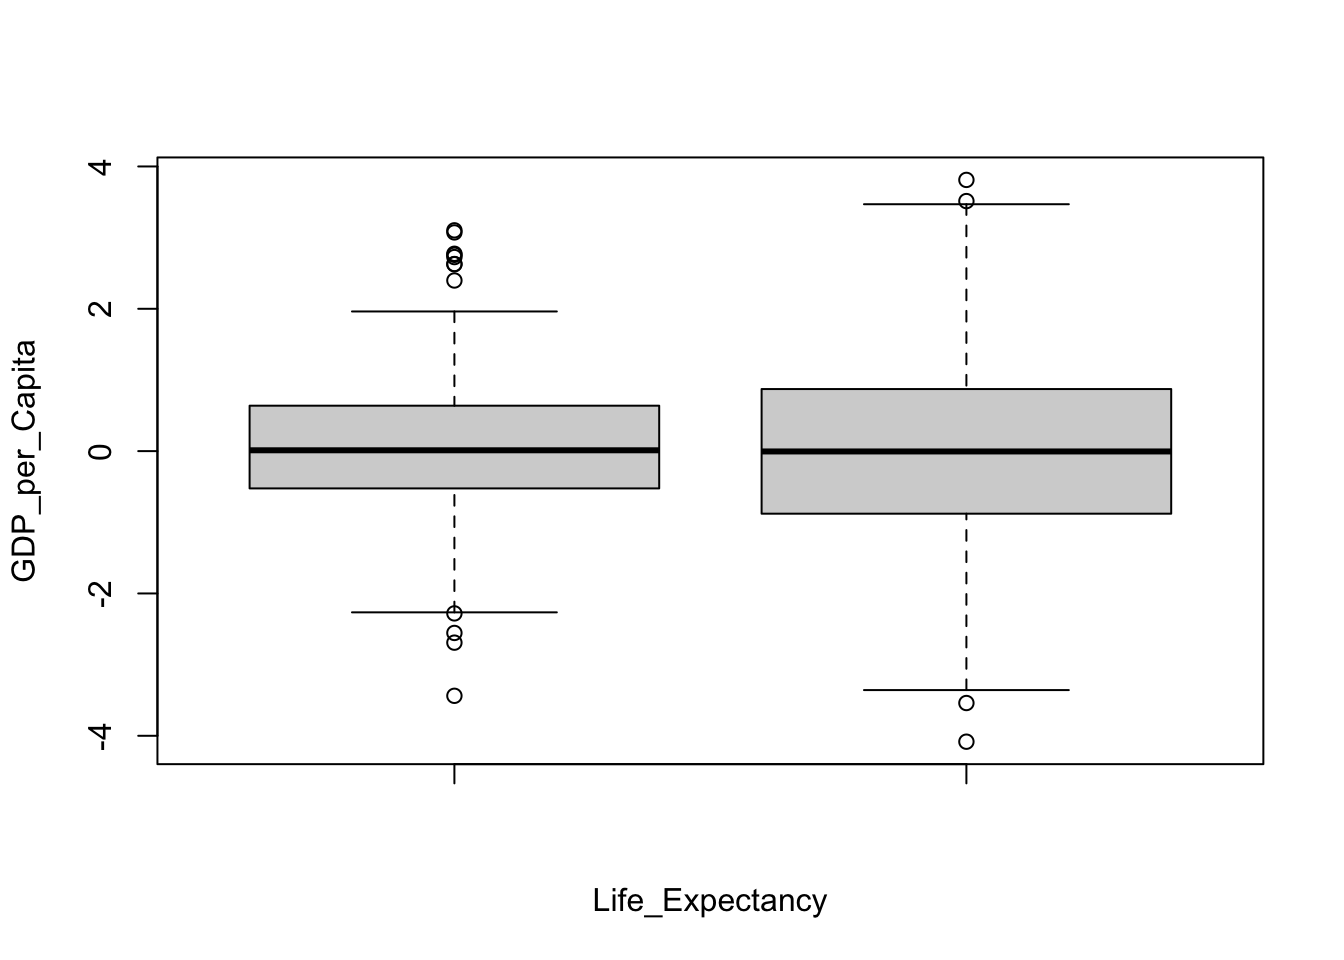
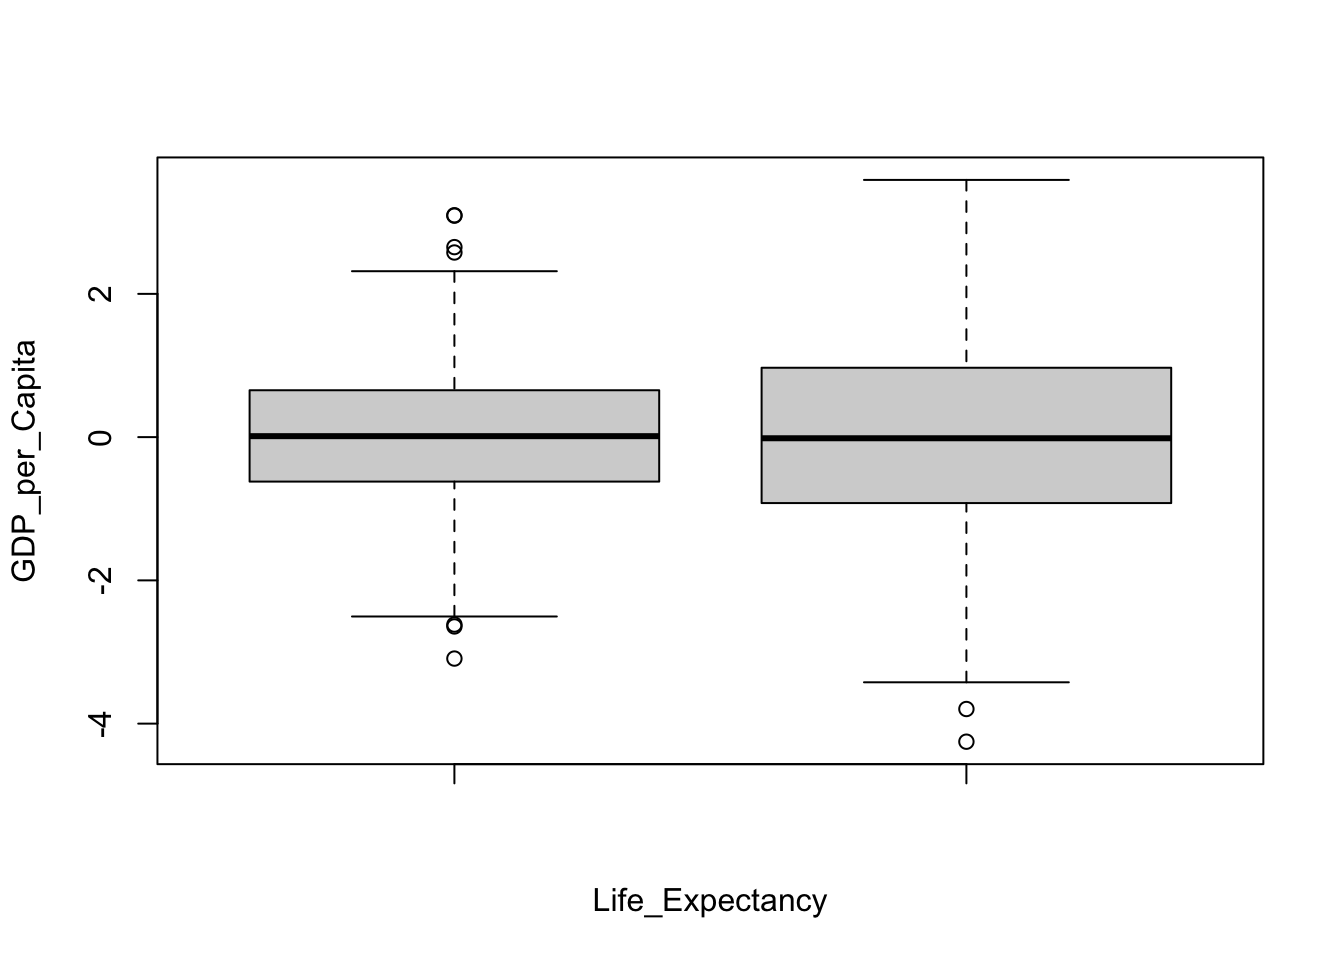
Add files via upload

diff --git a/assignment2.html b/assignment2.html
@@ -287,15 +287,15 @@ replace the existing scale.</code></pre>
 <span id="cb4-37"><a href="#cb4-37" aria-hidden="true" tabindex="-1"></a>Y <span class="ot">&lt;-</span> <span class="fu">rnorm</span>(<span class="dv">50</span>)</span>
 <span id="cb4-38"><a href="#cb4-38" aria-hidden="true" tabindex="-1"></a>Y</span></code><button title="Copy to Clipboard" class="code-copy-button"><i class="bi"></i></button></pre></div>
 <div class="cell-output cell-output-stdout">
-<pre><code> [1] -0.44420684  1.18852009  1.83683395  0.80086394 -1.90691942  0.64506465
- [7] -0.06110950  1.71711989  0.11671058 -0.56861449  0.91360540 -1.20609634
-[13] -0.11443797  1.56495793  0.44761826 -1.01013589  0.01586401 -0.01480488
-[19]  1.38794498 -0.79376065  0.89912768  0.76679671 -0.60639944  0.95851967
-[25] -1.10400487 -0.21717898  1.06838343  0.89186196 -1.28362651  0.05364925
-[31]  0.48056102  0.20250812 -0.52523317  0.79284324  1.56632553  0.37601856
-[37]  0.15775742  1.45804135 -0.31728777  1.30786968 -0.05676625  0.06615389
-[43]  0.55800432  1.14623356  0.62519521 -0.20654185 -1.11899860 -1.35039336
-[49] -1.73306015  0.15279495</code></pre>
+<pre><code> [1]  0.45255154 -0.15145779  1.21339010  0.22090136 -0.18880543 -3.27818713
+ [7]  0.78846679  0.11519106  0.95013232 -0.39234247  1.03334048 -0.02465380
+[13] -1.30576187 -1.28556227 -0.06642831 -0.62818122 -2.25295177 -0.42337483
+[19] -0.25390439 -1.78071555 -0.25552361  0.98746840  0.88191851 -0.55516167
+[25] -0.11517118 -1.65781967 -0.32286544  2.50279832  0.38773992 -2.02742301
+[31] -0.05957969  0.86025407 -1.17440319  0.78043352  0.04169812 -1.93945280
+[37] -0.96348271 -0.05325915 -0.16840660  0.38318511  0.51234872  0.55719085
+[43]  0.06659986  0.33152055 -1.46553940 -0.77706794 -1.70250787 -0.63980944
+[49]  2.76580593 -0.33137139</code></pre>
 </div>
 <div class="cell-output-display">
 <p><img src="assignment2_files/figure-html/unnamed-chunk-3-1.png" class="img-fluid" width="672"></p>

diff --git a/index.html b/index.html
@@ -172,7 +172,8 @@ ul.task-list{list-style: none;}
 <section id="contact-me" class="level3">
 <h3 class="anchored" data-anchor-id="contact-me">Contact me</h3>
 <p><a href="mailto:Seongdeok.Oh@utdallas.edu">Seongdeok.Oh@utdallas.edu</a></p>
-<p><a href="https://seongdeokoh.github.io">Website</a></p>
+<p><a href="https://www.linkedin.com/in/seongdeok-oh-a3b19a211/">Linkedin</a></p>
+<p><a href="https://scholar.google.com/citations?user=4KyCYIQAAAAJ&amp;hl=ko">Google Scholar</a></p>
 </section>
 <section id="section" class="level3">
 <h3 class="anchored" data-anchor-id="section"></h3>
